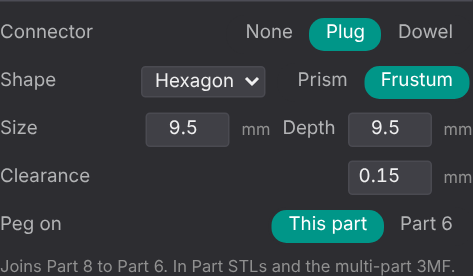
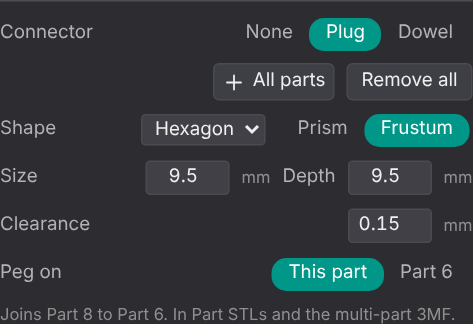
feat: connectors on all parts at once, and on every selected part
All parts (or right-click > Connectors on all parts) adds an automatically placed
and sized plug to every part's main cut that has none, one per cut, where it fits.
Remove all takes them off. Connector edits apply to all selected parts. A second
connector on the same cut is flagged and left out.

Claude-Session: https://claude.ai/code/session_01FChPq3NmNDzMwYeW34SaJS

diff --git a/app/main.js b/app/main.js
@@ -1490,6 +1490,8 @@ function insideOf(j) { // point-in-part test on part j's closed original mesh, c
 // the cut must take it (connCapTris), and each hole, with CONN_WALL of material around it, must stay inside its part.
 function connFit(k, c = S.parts[k]?.conn) {
   const pl = connPlan(k, c); if (!pl) return "";
+  const twin = S.parts.findIndex((q, j) => j > 0 && j < k && q.conn && !hasRep(q) && bodyJoint(j)?.loopKey === pl.loopKey);
+  if (twin > 0) return `${S.parts[twin].name} already has a connector on this cut.`;
   const bad = [];
   for (const [j, sp] of pl.spec) {
     const io = insideOf(j); if (!io) continue;
@@ -1509,16 +1511,37 @@ function connFit(k, c = S.parts[k]?.conn) {
 }
 const connFitCache = new Map();
 function connFitCached(k) {
-  const p = S.parts[k], fk = `${k}|${S.nF}|${JSON.stringify(p?.conn)}|${fullHash()}|${S.parts.map((q) => (q.fill ? 1 : 0) + (q.anchor ? 2 : 0)).join("")}`;
+  const fk = `${k}|${S.nF}|${JSON.stringify(S.parts.map((q) => q.conn || 0))}|${fullHash()}|${S.parts.map((q) => (q.fill ? 1 : 0) + (q.anchor ? 2 : 0)).join("")}`;
   if (!connFitCache.has(fk)) { if (connFitCache.size > 40) connFitCache.clear(); connFitCache.set(fk, connFit(k)); }
   return connFitCache.get(fk);
 }
 function setConn(k, c) {
-  if (k <= 0 || !S.parts[k]) return;
+  const pj = k > 0 && S.parts[k] ? bodyJoint(k) : null, nb = pj?.nb > 0 ? S.parts[pj.nb]?.name : "";
+  setConns([[k, c]], c ? `${c.type === "plug" ? "Plug" : "Dowel"} connector: ${S.parts[k]?.name} to ${nb}` : `Connector removed from ${S.parts[k]?.name}`);
+}
+function setConns(list, msg) { // [[part, conn or null], ...] as one undo step
+  list = list.filter(([k]) => k > 0 && S.parts[k]);
+  if (!list.length) return;
   pushUndo();
-  if (c) S.parts[k].conn = c; else delete S.parts[k].conn;
-  const pj = bodyJoint(k), nb = pj?.nb > 0 ? S.parts[pj.nb]?.name : "";
-  afterEdit(c ? `${c.type === "plug" ? "Plug" : "Dowel"} connector: ${S.parts[k].name} to ${nb}` : `Connector removed from ${S.parts[k].name}`);
+  for (const [k, c] of list) { if (c) S.parts[k].conn = c; else delete S.parts[k].conn; }
+  afterEdit(msg);
+}
+// A connector, automatically placed and sized, on every part's main cut that has none yet (smallest parts first, one
+// connector per cut, only where one fits). type null removes them all.
+function connectAll(type = "plug") {
+  if (!S.G) return;
+  if (!type) { const has = S.parts.map((q, k) => (q?.conn ? k : -1)).filter((k) => k > 0); setConns(has.map((k) => [k, null]), `Removed ${has.length} connector(s)`); return; }
+  const cnt = partCounts(), taken = new Set(), list = [];
+  S.parts.forEach((q, k) => { if (k > 0 && q.conn) { const pj = bodyJoint(k); if (pj?.loopKey) taken.add(pj.loopKey); } });
+  const order = S.parts.map((_, k) => k).filter((k) => k > 0 && !S.parts[k].conn && !hasRep(S.parts[k]) && cnt[k]).sort((a, b) => cnt[a] - cnt[b]);
+  let skipped = 0;
+  for (const k of order) {
+    const pj = bodyJoint(k); if (!pj?.loopLen || pj.nb <= 0 || taken.has(pj.loopKey)) continue;
+    const c = connDefaults(k, type); if (!c || connFit(k, c)) { skipped++; continue; }
+    taken.add(pj.loopKey); list.push([k, c]);
+  }
+  if (!list.length) { status(skipped ? `No connector fits the remaining cuts (${skipped} too small)` : "Every cut already has a connector"); return; }
+  setConns(list, `Added ${list.length} connector(s)${skipped ? `; ${skipped} cut(s) too small for one` : ""}. Select a part to change or remove its connector.`);
 }
 // Ghosts: the peg (its part's color) and the hole's outline, red when it doesn't fit.
 const connGroup = new THREE.Group(); scene.add(connGroup);
@@ -1960,6 +1983,7 @@ function openPartMenu(ev, i) {
   items.push("-");
   if (i > 0) it("replace", p.rep ? "Replace with another…" : "Replace with…", () => replaceWith(i));
   if (holesIn(i)) it("fill", "Close holes in this part", () => closeHoles(i));
+  it("plus", "Connectors on all parts", () => later(() => connectAll("plug")));
   it("trash", "Delete (merge into neighbor)", () => deletePart(i), "danger");
   it("trash", "Delete geometry, close holes", () => deleteGeometry([i], true), "danger");
   it("trash", "Delete geometry, leave holes", () => deleteGeometry([i], false), "danger");
@@ -2694,6 +2718,8 @@ $("repDel").onclick = () => { const p = S.parts[S.active]; if (!p?.rep) return; 
 function refreshConnRow(i) {
   const p = S.parts[i], pj = S.G && i > 0 && p && !hasRep(p) ? bodyJoint(i) : null, nb = pj?.loopLen && pj.nb > 0 ? pj.nb : -1;
   $("connBox").classList.toggle("hide", nb <= 0 || hasRep(S.parts[nb]));
+  $("connNone").disabled = !S.parts.some((q) => q?.conn);
+  const nSel = selected().length; $("connSel").textContent = nSel > 1 ? `Applies to the ${nSel} selected parts.` : "";
   if (nb <= 0) return;
   const c = p.conn;
   for (const b of $("connType").children) b.classList.toggle("on", (c?.type || "") === b.dataset.ct);
@@ -2710,14 +2736,21 @@ function refreshConnRow(i) {
   $("connNote").textContent = c.type === "dowel" ? `Holes in ${p.name} and ${S.parts[nb].name}; the dowel exports as its own part.`
     : `Joins ${p.name} to ${S.parts[nb].name}. In Part STLs and the multi-part 3MF.`;
 }
-const connEdit = (fn) => { const i = S.active, p = S.parts[i]; if (!S.G || i <= 0 || !p?.conn) return; const c = { ...p.conn }; fn(c); setConn(i, c); };
-for (const b of $("connType").children) b.onclick = () => {
-  const i = S.active, p = S.parts[i]; if (!S.G || i <= 0 || !p) return;
-  const t = b.dataset.ct;
-  if (!t) { if (p.conn) setConn(i, null); return; }
-  const c = p.conn ? { ...p.conn } : connDefaults(i); if (!c) return;
-  c.type = t; setConn(i, c);
+// Connector edits apply to every selected part (Ctrl/Shift+click selects more).
+const connEdit = (fn) => {
+  if (!S.G || S.active <= 0) return;
+  const js = selected().filter((j) => S.parts[j]?.conn);
+  setConns(js.map((j) => { const c = { ...S.parts[j].conn }; fn(c); return [j, c]; }), js.length > 1 ? `Connector changed on ${js.length} parts` : `Connector changed on ${S.parts[js[0]]?.name}`);
 };
+for (const b of $("connType").children) b.onclick = () => {
+  if (!S.G || S.active <= 0) return;
+  const t = b.dataset.ct, js = selected().filter((j) => !hasRep(S.parts[j]));
+  const list = js.map((j) => [j, t ? (S.parts[j].conn ? { ...S.parts[j].conn, type: t } : connDefaults(j, t)) : null]).filter(([, c]) => c !== undefined && (c || !t));
+  if (js.length === 1) { setConn(js[0], list[0]?.[1] ?? null); return; }
+  setConns(list, t ? `${t === "plug" ? "Plug" : "Dowel"} connectors on ${list.length} parts` : `Connectors removed from ${list.length} parts`);
+};
+$("connAll").onclick = () => later(() => connectAll("plug"));
+$("connNone").onclick = () => connectAll(null);
 for (const b of $("connStyle").children) b.onclick = () => connEdit((c) => { c.style = b.dataset.cs; });
 $("connShape").onchange = () => connEdit((c) => { c.shape = $("connShape").value; });
 $("connD").onchange = () => connEdit((c) => { c.d = Math.max(0.5, +$("connD").value || c.d); });
@@ -3555,4 +3588,4 @@ if (ORCA.on) {
   window.addEventListener("focus", () => orcaSend({ cmd: "objects" }));
   orcaSend({ cmd: "objects", auto: true });
 }
-window.app = { S, setConn, connPlan, connFit, connExtras, connDefaults, buildOne3MF, buildPainted3MF, setPrintAs, deleteGeometry, closeHoles, meshHoles, setAnchor, setGap, setTrim, trimResult, trimMeshes, setSlide, updateTrim, loopPlans, partLoops, fillCtx, fillMesh: () => fillMesh, setAutoStretch, solveAutoStretch, setStretch, stretchFrame, findHits, hits: () => hits, carryMat, ORCA, gizmo, gzProxy, setHold, holdersOf, setXfMatrix, xfEdited, reachPoints, setReach, reachOf, setFollow, leaderOf, followersOf, partMat, healField, healBase, partSoup, setGizmo, setGizmoJoint, jointFrame, xfMatrix, snapshot, buildParts3MF, exportParts3MF, loadRaw, scene, REPS, repMatrix, mergedSoup, partStats, localChecks, captureForNaming, runNaming, applyXf, ensureXf, undo, redo, deletePart, smoothBoundaries, smoothCut, snapCreases, encodeSession, segmentFromSeeds, autoSplit, splitShells, fillFrom, exportPainted3MF, exportSTLs, partMesh, paintCode, loadArrayBuffer, setTool, refreshUI, afterEdit, newPart, render, camera, controls, frame };
+window.app = { S, setConn, connectAll, connPlan, connFit, connExtras, connDefaults, buildOne3MF, buildPainted3MF, setPrintAs, deleteGeometry, closeHoles, meshHoles, setAnchor, setGap, setTrim, trimResult, trimMeshes, setSlide, updateTrim, loopPlans, partLoops, fillCtx, fillMesh: () => fillMesh, setAutoStretch, solveAutoStretch, setStretch, stretchFrame, findHits, hits: () => hits, carryMat, ORCA, gizmo, gzProxy, setHold, holdersOf, setXfMatrix, xfEdited, reachPoints, setReach, reachOf, setFollow, leaderOf, followersOf, partMat, healField, healBase, partSoup, setGizmo, setGizmoJoint, jointFrame, xfMatrix, snapshot, buildParts3MF, exportParts3MF, loadRaw, scene, REPS, repMatrix, mergedSoup, partStats, localChecks, captureForNaming, runNaming, applyXf, ensureXf, undo, redo, deletePart, smoothBoundaries, smoothCut, snapCreases, encodeSession, segmentFromSeeds, autoSplit, splitShells, fillFrom, exportPainted3MF, exportSTLs, partMesh, paintCode, loadArrayBuffer, setTool, refreshUI, afterEdit, newPart, render, camera, controls, frame };

diff --git a/app/index.html b/app/index.html
@@ -62,6 +62,7 @@
       <div id="connBox" title="Connector: a peg and a matching hole where this part joins the part across its cut, so printed pieces line up and glue together. Added to Part STLs and the multi-part 3MF.">
         <div class="pr"><span class="lbl">Connector</span>
           <span class="seg" id="connType"><button data-ct="" title="No connector">None</button><button data-ct="plug" title="Plug: a peg on one part and a matching hole in the other">Plug</button><button data-ct="dowel" title="Dowel: a hole in both parts and a separate peg that prints on its own">Dowel</button></span></div>
+        <div class="pr"><span class="lbl small" id="connSel"></span><button id="connAll" data-icon="plus" title="Add an automatically placed and sized plug to every part's main cut that has none yet (one per cut, only where it fits). Then select a part to change or remove its connector.">All parts</button><button id="connNone" title="Remove every connector">Remove all</button></div>
         <div id="connOpts">
           <div class="pr"><span class="lbl">Shape</span><select id="connShape" title="Cross-section of the peg"><option value="circle">Circle</option><option value="square">Square</option><option value="hex">Hexagon</option><option value="triangle">Triangle</option></select>
             <span class="seg" id="connStyle"><button data-cs="prism" title="Prism: straight sides">Prism</button><button data-cs="frustum" title="Frustum: tapers to 60% at the tip, which eases fitting and overhangs">Frustum</button></span></div>

diff --git a/docs/features/editing-parts.md b/docs/features/editing-parts.md
@@ -86,7 +86,13 @@ Adds a peg and a matching hole where two parts meet, like the connectors in Orca
 
 ![A connector: its ghost in the view, then the exported foot and base, and a dowel between the broom and the hand](img/connectors.png)
 
+Connectors are placed for you: each sits at the center of the part's cut, points straight through it, and starts at the largest size that fits. You only pick which parts get one, and change any setting you like.
+
 ### How to use it
+
+- **Every part at once:** click **All parts** under **Connector** (or right-click a part > **Connectors on all parts**). Each part's main cut that doesn't have a connector yet gets a plug, one per cut, where one fits. Then select any part to change its connector or set it to **None**. **Remove all** takes them all off.
+- **Several parts:** Ctrl+click or Shift+click parts in the list. A connector change then applies to all the selected parts.
+- **One part:**
 
 1. Select the part. The connector goes on its main cut: the one toward the bigger part it joins, such as a foot's cut to the base.
 2. Under **Connector**, pick **Plug** or **Dowel**.
